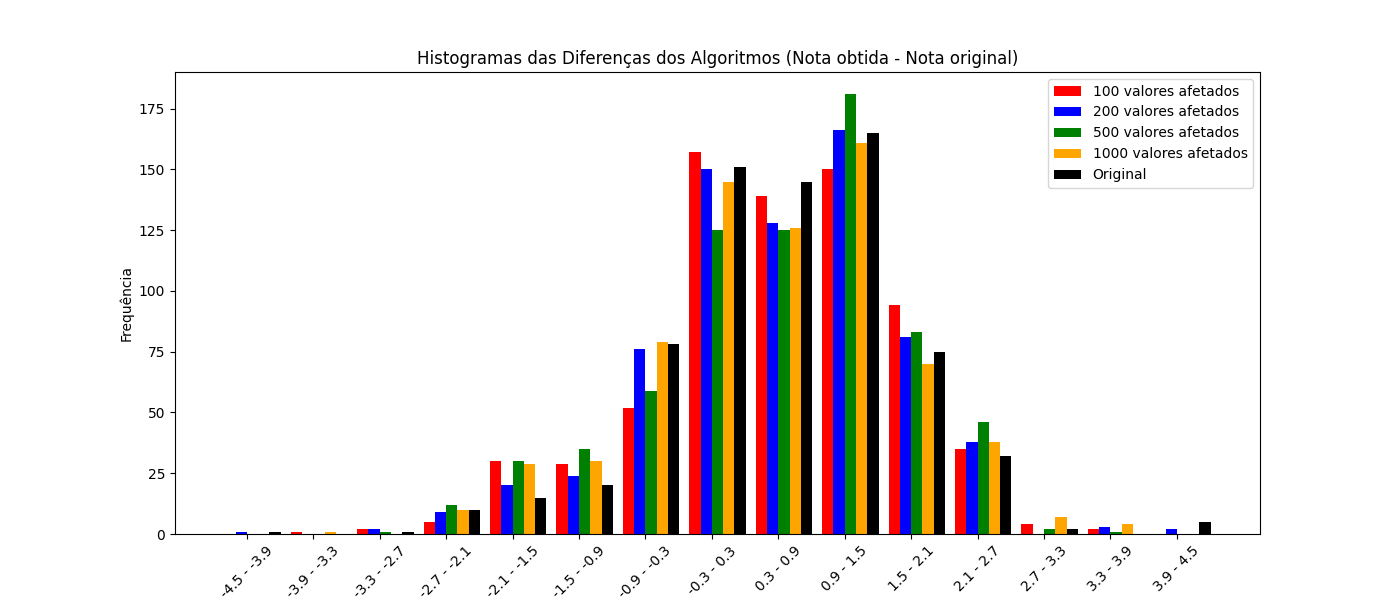
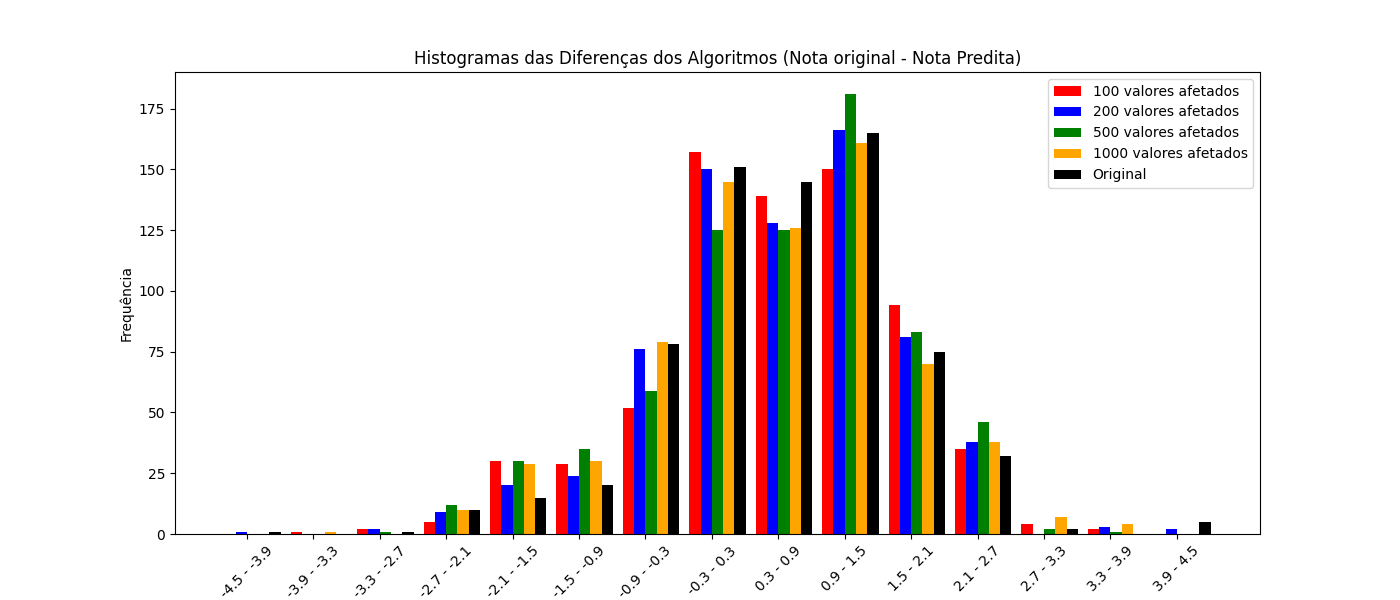
alteracao no titulo da imagem

Changed region(s): [[0.2764, 0.09, 0.7371, 0.12]]

diff --git a/demo.py b/demo.py
@@ -81,7 +81,7 @@ plt.xticks(bar_positions + bar_width * 1.5, bin_labels, rotation=45)
 plt.xlabel('Diferenças')
 plt.ylabel('Frequência')
 plt.legend()
-plt.title('Histogramas das Diferenças dos Algoritmos (Nota obtida - Nota original)')
+plt.title('Histogramas das Diferenças dos Algoritmos (Nota original - Nota Predita)')
 plt.show()
 
 

diff --git a/README.md b/README.md
@@ -57,7 +57,7 @@ Como pode ser observado, são realizados 4 ensaios, com $n$ igual a 100, 200, 50
 
 ### Resultados e Discussão
 A partir da análise dos dados levantados, pode-se perceber que o algoritmo é razoalvemente eficaz para realizar a recomendação de filmes para multiplos usuários, sem grande perda na eficácia. Essa característica é relavante para sistemas em produção, tendo em vista a grande demanda para realizar recomendação de filmes para multiplos usuários. 
-Dito isso, cabem algumas ressalvas. O algoritmo claramente superestima a nota que o usuário daria, então uma série de casos de recomendação que seriam considerados como obras medianas pelos usuários é esperado. Por outro lado, também significa que filmes que seriam considerados muito bons pelos usuários, raramente não são apresentados. Sendo assim, o resultado geral é positivo, mas certamente pode ser refinado, para concentrar os valores no centro da distribuição.
+Dito isso, cabem algumas ressalvas. O algoritmo claramente subestima a nota que o usuário daria, então uma série de casos de recomendação que seriam considerados como obras medianas pelos usuários é esperado. Por outro lado, também significa que filmes que seriam considerados muito bons pelos usuários, raramente não são apresentados. Sendo assim, o resultado geral é positivo, mas certamente pode ser refinado, para concentrar os valores no centro da distribuição.
 
 ### Como instalar?  
 Para garantir o funcionamento da aplicação é recomedado a criação de um ambiente virtual (venv) para instalar as dependência, como apresentado em https://docs.python.org/3/library/venv.html.  
